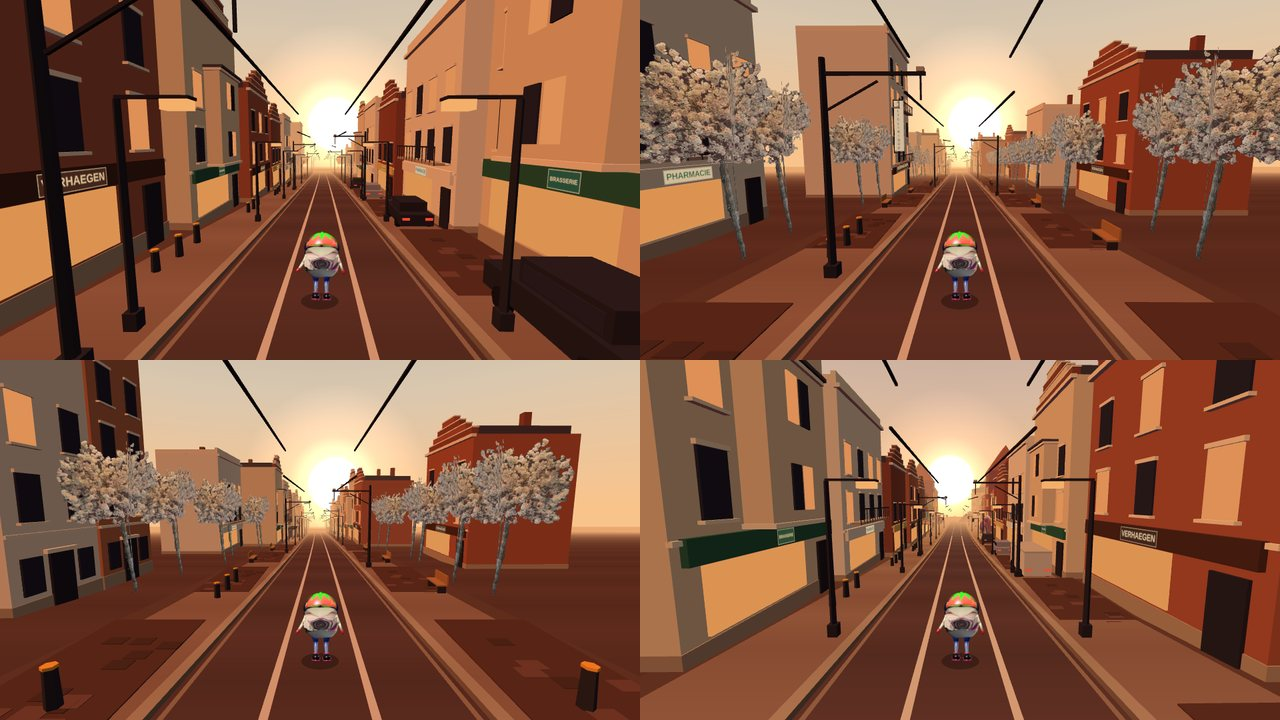
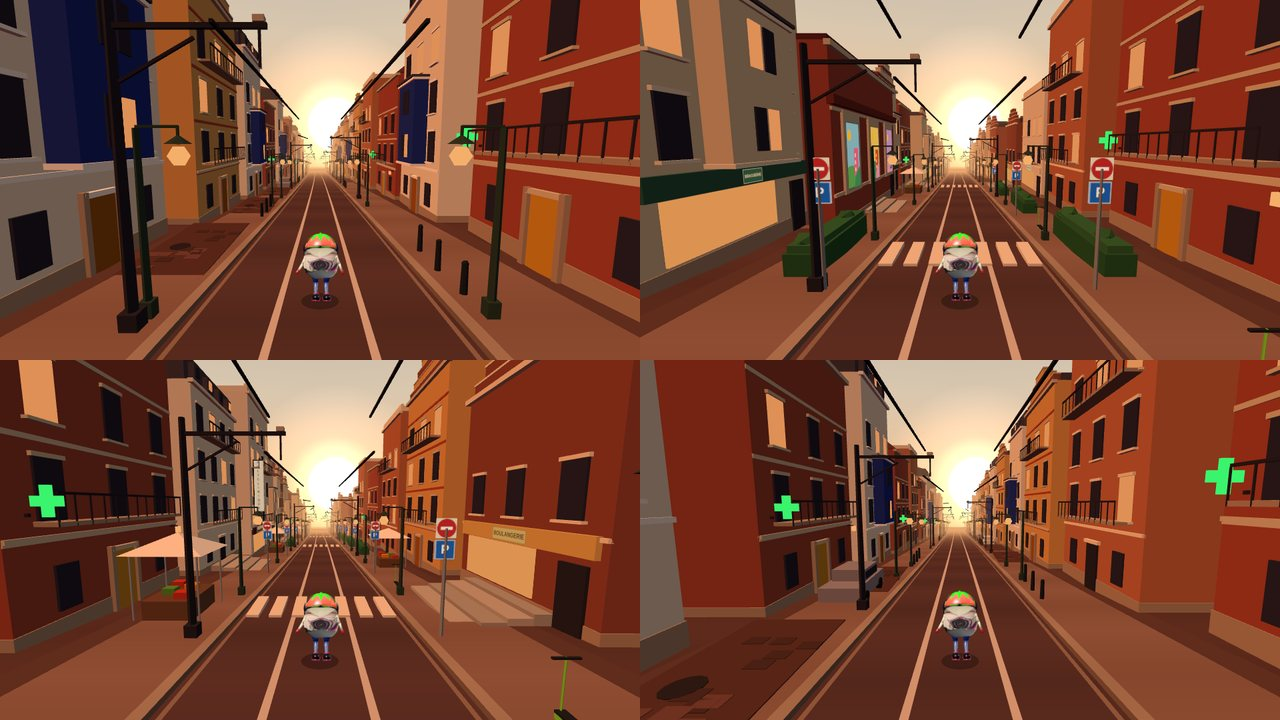
Enrich Saint-Gilles from three more photos: four new houses (ochre Art Nouveau with brick bands and iron balcony, white house with blue oriel, red-brick corner with pharmacy cross, modern white block), green lantern lamps, bollards, street signs, hedges, market canopies, steps, e-scooters, manhole c

diff --git a/src3d/env_tram.js b/src3d/env_tram.js
@@ -9,18 +9,21 @@ window.ENV3D = window.ENV3D || {};
   const mod = (a, n) => ((a % n) + n) % n;
   const T = { brick: '#a45a45', brickD: '#8a4a3c', brickL: '#b8704f', cream: '#e3d0b0', white: '#ece2d0', grey: '#b8aea2', stone: '#a8927e', slate: '#4a424c', roof: '#7a4a42',
               glass: '#2c2a3a', sun: '#e8975a', trim: '#f1e5cd', iron: '#2a2630', wire: '#26222c', warm: '#ffb870', cobble: '#55352f', cobbleA: '#6a4640', cobbleB: '#47302b',
-              awnA: '#b23a3a', awnB: '#efe0c0' };
+              awnA: '#b23a3a', awnB: '#efe0c0',
+              ochre: '#d8a35e', brickRed: '#a9483a', stoneL: '#cfc2a8', wood: '#9a5a1c', blue: '#22318c', white2: '#f0ede6', green: '#2c3d34', hedge: '#2c5a34', lime: '#7ddc3a' };
   const SLOT = SEG_LEN;
 
   // one townhouse (or half of a twin): facade plane at local x = 0, body toward +X, centred at z = zc
   function house(parts, o) {
-    const { F, D, H, zc = 0, wall, trim = T.trim, gable = 'step', roofCol = T.slate, cols = 3, bay = false, balcony = false, shop = null, seed = 1 } = o;
+    const { F, D, H, zc = 0, wall, trim = T.trim, gable = 'step', roofCol = T.slate, cols = 3, bay = false, balcony = false, shop = null, seed = 1, bands = null, bayCol = null, doorCol = null, base = null, cross = false, wallLamp = false } = o;
     const GF = 3.4, FL = 3.0, floors = Math.max(1, Math.floor((H - GF - 0.6) / FL));
     parts.push(Kit.box(D, H, F, D / 2, 0, zc, wall));                                                       // body
     parts.push(Kit.box(D + 0.08, 0.7, F + 0.08, D / 2, 0, zc, T.stone));                                    // plinth
     parts.push(Kit.box(0.36, 0.24, F + 0.3, -0.07, H - 0.24, zc, trim));                                    // cornice
     parts.push(Kit.box(0.16, 0.14, F, -0.02, GF - 0.12, zc, trim));                                         // ground-floor band
     const bc = Math.floor(cols / 2), cw = F / cols;
+    if (base) parts.push(Kit.box(0.08, GF, F, -0.02, 0, zc, base));                                          // a darker ground floor (modern block: dark brick)
+    if (bands) for (let f = 0; f <= Math.floor((H - GF) / FL); f++) parts.push(Kit.box(0.05, 0.16, F, -0.015, GF + f * FL - 0.2, zc, bands));   // horizontal brick / stone bands at every floor line
     for (let f = 0; f < floors; f++) {
       const y = GF + f * FL + 0.45;
       for (let c = 0; c < cols; c++) {
@@ -39,7 +42,7 @@ window.ENV3D = window.ENV3D || {};
     }
     if (bay) {                                                                                               // oriel (bay window) over two floors
       const bw = cw * 1.3, bz = zc - F / 2 + (bc + 0.5) * cw, by = GF + 0.2, bh = 2 * FL - 0.5;
-      parts.push(Kit.box(0.95, bh, bw, -0.45, by, bz, wall), Kit.box(1.1, 0.16, bw + 0.2, -0.5, by + bh, bz, trim), Kit.box(1.1, 0.16, bw + 0.2, -0.5, by - 0.1, bz, trim));
+      parts.push(Kit.box(0.95, bh, bw, -0.45, by, bz, bayCol || wall), Kit.box(1.1, 0.16, bw + 0.2, -0.5, by + bh, bz, trim), Kit.box(1.1, 0.16, bw + 0.2, -0.5, by - 0.1, bz, trim));
       for (let f = 0; f < 2; f++) for (const dz of [-0.4, 0.4]) {
         const lit = rnd(seed * 13 + f * 5 + (dz > 0 ? 1 : 0), 6) < 0.4;
         parts.push(Kit.box(0.08, 1.6, 0.62, -0.95, by + 0.45 + f * FL, bz + dz, lit ? T.sun : T.glass, { glow: lit }));
@@ -51,9 +54,12 @@ window.ENV3D = window.ENV3D || {};
       parts.push(Kit.box(0.14, 2.5, 1.1, -0.04, 0.0, zc + F / 2 - 1.1, T.iron));
       parts.push(Kit.box(0.22, 0.7, F * 0.94, -0.08, 2.75, zc, shop));                                       // fascia board
     } else {
-      parts.push(Kit.box(0.14, 2.5, 1.2, -0.04, 0.0, zc, T.iron), Kit.box(0.22, 0.18, 1.6, -0.08, 2.5, zc, trim));
+      parts.push(Kit.box(0.14, 2.5, 1.2, -0.04, 0.0, zc, doorCol || T.iron), Kit.box(0.22, 0.18, 1.6, -0.08, 2.5, zc, trim));
+      if (doorCol) for (const sd of [-1, 1]) parts.push(Kit.box(0.24, 2.7, 0.22, -0.07, 0, zc + sd * 0.78, T.stone));      // stone door surround
       for (const s of [-1, 1]) parts.push(Kit.box(0.1, 1.5, 0.9, -0.04, 0.95, zc + s * F * 0.3, T.glass));
     }
+    if (wallLamp) parts.push(Kit.box(0.4, 0.08, 0.08, -0.2, 3.1, zc + F / 2 - 0.6, T.iron), Kit.box(0.22, 0.34, 0.22, -0.42, 2.78, zc + F / 2 - 0.6, T.warm, { glow: true }));   // a wall lantern by the door
+    if (cross) parts.push(Kit.box(0.1, 0.1, 0.1, -0.1, 4.0, zc - F / 2 + 0.7, T.iron), Kit.box(0.9, 0.3, 0.1, -0.7, 4.3, zc - F / 2 + 0.7, '#3dff72', { glow: true }), Kit.box(0.3, 0.9, 0.1, -0.7, 4.0, zc - F / 2 + 0.7, '#3dff72', { glow: true }));   // a pharmacy cross, glowing green
     if (gable === 'step') {                                                                                  // Brussels stepped gable
       const steps = [0.92, 0.7, 0.48, 0.26];
       steps.forEach((k, n) => parts.push(Kit.box(0.5, 0.55, F * k, 0.25, H + n * 0.55, zc, n % 2 ? wall : T.brickD), Kit.box(0.56, 0.1, F * k + 0.1, 0.25, H + n * 0.55 + 0.55, zc, trim)));
@@ -90,8 +96,8 @@ window.ENV3D = window.ENV3D || {};
     return Kit.merge(p);
   }
   // house types by slot parity (A C E G on even slots of a side, B D F H on odd ones), so two neighbouring houses are never the same whatever the stretch
-  const ODD = ['rowB', 'rowD', 'rowF', 'rowH'], EVEN = ['rowA', 'rowC', 'rowE', 'rowG'];
-  const BRICK = [['rowA', 'rowE', 'rowC'], ['rowH', 'rowB']], SHOPS = [['rowE', 'rowG'], ['rowF', 'rowH']];
+  const ODD = ['rowB', 'rowD', 'rowF', 'rowH', 'rowJ', 'rowL'], EVEN = ['rowA', 'rowC', 'rowE', 'rowG', 'rowI', 'rowK'];
+  const BRICK = [['rowA', 'rowE', 'rowC', 'rowK'], ['rowH', 'rowB']], SHOPS = [['rowE', 'rowG'], ['rowF', 'rowH']], ART = [['rowI', 'rowK'], ['rowJ', 'rowB']];
 
   ENV3D.tram = {
     name: 'SAINT-GILLES',
@@ -119,6 +125,12 @@ window.ENV3D = window.ENV3D || {};
       rowF: build([{ F: 8.8, D: 8, H: 12.6, wall: T.cream, cols: 3, shop: '#2f5d4a', bay: true, seed: 7 }], [fascia('brass', 8.8)]),
       rowG: build([{ F: 10, D: 7, H: 11.8, wall: T.white, cols: 4, shop: '#e8e2d2', gable: 'flat', balcony: true, seed: 8 }], [fascia('pharm', 10)]),
       rowH: build([{ F: 8.6, D: 7, H: 9.8, wall: T.brickD, cols: 3, shop: '#d9b46a', seed: 9 }], [fascia('boul', 8.6)]),
+      // the second set of houses, from your later photos: an ochre-brick Art Nouveau house with red brick bands, a stone door surround, a wooden door and a big iron balcony; a white house
+      // with a dark-blue oriel; a red-brick corner house with a glowing pharmacy cross; a modern white block over a dark brick ground floor
+      rowI: build([{ F: 9, D: 8, H: 14.4, wall: T.ochre, trim: T.stoneL, bands: T.brickRed, cols: 3, balcony: true, doorCol: T.wood, gable: 'step', seed: 13 }]),
+      rowJ: build([{ F: 8.2, D: 8, H: 15, wall: '#efe7d8', trim: '#ffffff', cols: 3, bay: true, bayCol: T.blue, doorCol: T.wood, gable: 'mansard', roofCol: T.slate, seed: 14 }]),
+      rowK: build([{ F: 9.4, D: 8, H: 12.4, wall: '#9e4a3b', trim: T.stoneL, bands: T.stoneL, cols: 3, balcony: true, doorCol: '#c9942e', cross: true, wallLamp: true, gable: 'gable', roofCol: T.roof, seed: 15 }]),
+      rowL: build([{ F: 11, D: 8, H: 16.6, wall: T.white2, trim: '#d9d4ca', cols: 4, balcony: true, base: '#6b3a30', gable: 'flat', seed: 16 }]),
       // street furniture
       pole: () => Kit.merge([                                        // a pole carrying a cantilever arm over the rails, with a dropper to the wire
         Kit.box(0.4, 0.4, 0.4, 0, 0, 0, T.iron), Kit.cyl(0.09, 0.13, 6.6, 0, 0, 0, T.iron), Kit.box(3.0, 0.1, 0.1, -1.5, 6.1, 0, T.iron), Kit.box(1.7, 0.06, 0.06, -0.85, 5.5, 0, T.iron, { rz: -0.5 }),
@@ -130,6 +142,7 @@ window.ENV3D = window.ENV3D || {};
       blossom: () => BlossomSprite.prop(7.5),                          // the user's blossom-tree photo, 7.5 m tall
       cobbles: () => { const p = [Kit.box(2.9, 0.03, SLOT - 0.4, 0, 0, 0, T.cobble)];                      // a cobbled parking strip with lighter setts
         for (let k = 0; k < 22; k++) p.push(Kit.box(0.55, 0.045, 0.4, -1.2 + rnd(k, 31) * 2.4, 0, -5 + rnd(k, 32) * 10, k % 2 ? T.cobbleA : T.cobbleB));
+        p.push(Kit.cyl(0.4, 0.4, 0.05, 0.5, 0, 2.2, '#2b2527', { seg: 12 }));                                       // a manhole cover
         return Kit.merge(p); },
       carA: () => car('#2a2530', { lit: true }), carB: () => car('#d8d4cc'), carC: () => car('#8e8a96', { lit: true }), van: () => car('#cfcac2', { van: true, lit: true }),
       // landmarks (at most one per stretch and side), and the entrance marker
@@ -146,6 +159,27 @@ window.ENV3D = window.ENV3D || {};
         for (let k = 0; k < 8; k++) parts.push(Kit.box(1.4, 0.08, 1.0, -0.9, 3.2, -3.5 + k * 1.0, k % 2 ? T.awnA : T.awnB, { rz: 0.35 }));        // striped awning
         for (const z of [-2.2, 2.2]) parts.push(Kit.cyl(0.5, 0.5, 0.05, -2.6, 0.75, z, T.cream, { seg: 8 }), Kit.cyl(0.05, 0.05, 0.75, -2.6, 0, z, T.iron, { seg: 5 }), Kit.cone(1.4, 0.5, -2.6, 2.3, z, T.awnA, { seg: 8 }), Kit.cyl(0.05, 0.05, 2.3, -2.6, 0, z, T.iron, { seg: 5 }));
       }),
+      lantern: () => Kit.merge([                                      // the dark-green street lamp of the photos: a curved arm and a glowing globe
+        Kit.box(0.3, 0.4, 0.3, 0, 0, 0, T.green), Kit.cyl(0.07, 0.1, 4.3, 0, 0, 0, T.green), Kit.box(0.9, 0.06, 0.06, -0.45, 4.3, 0, T.green), Kit.box(0.05, 0.4, 0.05, -0.9, 3.95, 0, T.green),
+        Kit.ico(0.24, -0.9, 3.7, 0, T.warm, { glow: true }), Kit.cone(0.3, 0.2, -0.9, 3.96, 0, T.green, { seg: 8 })]),
+      posts: () => Kit.merge([-1.8, 0, 1.8].flatMap(z => [Kit.cyl(0.09, 0.11, 0.95, 0, 0, z, '#1d2128', { seg: 8 }), Kit.ico(0.1, 0, 0.98, z, '#1d2128')])),   // a row of black bollards with round tops
+      streetSign: () => ({ merged: Kit.merge([Kit.cyl(0.05, 0.06, 3.4, 0, 0, 0, '#8a8f96', { seg: 6 })]),
+                           sprite: TramArt.join([TramArt.blade('park', 0, -0.32, 0.28, 2.45, 3.05), TramArt.blade('noent', 0, -0.3, 0.3, 3.1, 3.7)]), material: () => TramArt.material() }),
+      hedge: () => Kit.merge([Kit.box(1.0, 0.9, 5.2, 0, 0, 0, T.hedge), Kit.box(0.8, 0.25, 5.0, 0, 0.9, 0, '#35683c'), Kit.ico(0.5, 0, 1.0, -2.0, '#35683c'), Kit.ico(0.45, 0, 1.0, 1.4, '#2f6038')]),
+      tent: () => { const p = [Kit.box(1.8, 0.8, 2.4, 0, 0, 0, '#6a4a36'), Kit.cone(2.1, 0.7, 0, 2.5, 0, '#f1efe8', { seg: 4, ry: Math.PI / 4 }), Kit.box(2.5, 0.06, 2.5, 0, 2.45, 0, '#f1efe8')];   // a white market canopy over a table of crates
+        for (const [x, z] of [[-1.2, -1.2], [1.2, -1.2], [-1.2, 1.2], [1.2, 1.2]]) p.push(Kit.cyl(0.04, 0.04, 2.5, x, 0, z, '#9aa0a6', { seg: 5 }));
+        [['#c0392b', -0.4, -0.7], ['#5a9a3c', 0.3, -0.2], ['#e08a1e', -0.3, 0.4], ['#c0392b', 0.4, 0.8]].forEach(([c, x, z]) => p.push(Kit.box(0.5, 0.25, 0.45, x, 0.8, z, c)));
+        return Kit.merge(p); },
+      scooter: () => Kit.merge([Kit.box(0.2, 0.05, 0.85, 0, 0.14, 0, '#222428'), Kit.cyl(0.02, 0.02, 1.05, 0, 0.14, -0.4, T.lime, { seg: 5 }), Kit.box(0.5, 0.04, 0.05, 0, 1.15, -0.4, '#222428'),
+        Kit.cyl(0.11, 0.11, 0.06, 0, 0.0, -0.4, T.lime, { rz: Math.PI / 2, seg: 8 }), Kit.cyl(0.11, 0.11, 0.06, 0, 0.0, 0.4, T.lime, { rz: Math.PI / 2, seg: 8 })]),
+      steps: () => Kit.merge([0, 1, 2, 3].map(k => Kit.box(0.9, 0.15 * (k + 1), 5.2, 0.5 + k * 0.9, 0, 0, k % 2 ? '#a39d94' : '#b3aca1'))),   // stone steps up from the pavement
+      zebra: () => Kit.merge([-3, -2, -1, 0, 1, 2, 3].map(k => Kit.box(0.5, 0.17, 2.4, k * 0.9, -0.14, 0, '#e9e2d2'))),            // a pedestrian crossing painted on the road (sunk so its top is 3 cm above it)
+      school: () => { const sp = [], p = [Kit.box(9, 10.4, 15, 4.5, 0, 0, '#9a463a'), Kit.box(9.1, 0.7, 15.1, 4.5, 0, 0, T.stone), Kit.box(0.36, 0.3, 15.4, -0.08, 10.1, 0, T.stoneL), Kit.box(0.14, 0.2, 15, -0.03, 6.9, 0, T.stoneL), Kit.box(0.14, 0.2, 15, -0.03, 2.2, 0, T.stoneL)];
+        ['mural1', 'mural2', 'mural3'].forEach((m, k) => { const z = -4.8 + k * 4.8; p.push(Kit.box(0.22, 4.9, 2.8, -0.05, 2.15, z, T.stoneL)); sp.push(TramArt.panel(m, -0.18, z - 1.1, z + 1.1, 2.4, 6.4)); });   // an arched window frame and a mural in each
+        p.push(Kit.box(0.4, 0.5, 15.4, -0.1, 7.2, 0, '#6e2f2c'), Kit.box(9, 0.3, 15, 4.5, 10.4, 0, '#5a2a30'), Kit.box(0.14, 2.6, 1.3, -0.04, 0, 6.0, T.iron));
+        return { merged: Kit.merge(p), sprite: TramArt.join(sp), material: () => TramArt.material() }; },
+      glassTower: () => Kit.merge([Kit.box(10, 20, 16, 5, 0, 0, '#7c8a9c'), Kit.box(10.4, 26, 16.4, 5, 20, 0, '#e8b96b', { glow: true }), Kit.box(10.2, 0.6, 16.2, 5, 46, 0, '#6a7888'), Kit.cyl(0.15, 0.2, 5, 5, 46.6, 0, '#9aa0a6', { seg: 5 }),
+        ...[26, 32, 38].map(y => Kit.box(10.5, 0.25, 16.5, 5, y, 0, '#b88e48', { glow: true }))]),                                   // a tall glass tower in the distance, gold where it catches the sun
       gateTram: () => ({ merged: Kit.merge([Kit.cyl(0.09, 0.12, 3.6, 0, 0, 0, T.iron), Kit.box(0.3, 0.3, 0.3, 0, 0, 0, T.iron)]), sprite: TramArt.blade('stop', 0, -0.9, 0.9, 2.5, 3.5), material: () => TramArt.material() }),
     },
 
@@ -158,25 +192,33 @@ window.ENV3D = window.ENV3D || {};
     //   2 brick: tall brick houses with bay windows and stepped gables
     // A landmark (Polyclinique block / tram stop / corner cafe) replaces the house on its side of one slot per stretch (the tram stop stands on the pavement, the houses stay).
     layout(i, rnd) {
-      const out = [{ prop: 'wire', x: -1.1, dist: 6 }, { prop: 'wire', x: 1.1, dist: 6 }], S = Stretch.of(i, 31, 5, ['polyclinique', 'tramStop', 'cornerCafe']);
+      const out = [{ prop: 'wire', x: -1.1, dist: 6 }, { prop: 'wire', x: 1.1, dist: 6 }], S = Stretch.of(i, 31, 7, ['polyclinique', 'tramStop', 'cornerCafe', 'school', 'glassTower']);
       for (const side of [-1, 1]) {
-        const k = i * 2 + (side > 0 ? 1 : 0), r = n => rnd(k, n), lm = S.lm && S.lm.slot === i && S.lm.side === side ? S.lm.kind : null, blocks = lm && lm !== 'tramStop';
+        const k = i * 2 + (side > 0 ? 1 : 0), r = n => rnd(k, n), lm = S.lm && S.lm.slot === i && S.lm.side === side ? S.lm.kind : null, blocks = lm && lm !== 'tramStop' && lm !== 'glassTower';
         const par = mod(i + (side > 0 ? 1 : 0), 2), pick = (L = [EVEN, ODD]) => L[par][Math.floor(r(12) * L[par].length)];   // a house type of this slot's parity class
         const house = (prop, x, dz) => { if (!blocks) out.push({ prop, x: side * x, dist: 6 + dz }); };
         const park = mod(S.b + (side > 0 ? 1 : 0), 2) === 0;                                                 // which side of this stretch has the parking strip
         const cars = (p = 0.6) => { if (!park) return; out.push({ prop: 'cobbles', x: side * 5.15, dist: 6 }); if (r(5) < p) out.push({ prop: ['carA', 'carB', 'carC', 'van'][Math.floor(r(6) * 4)], x: side * 5.15, dist: 3.2 + r(7) * 5 }); };
         if (mod(i + (side > 0 ? 1 : 0), 3) === 0) out.push({ prop: 'pole', x: side * 4.0, dist: 2.5 });
         switch (S.variant) {
-          case 0: house(pick(), FRONT_X + r(1) * 0.5, (r(2) - 0.5) * 0.8); cars(0.65); if (mod(i, 2) === (side > 0 ? 1 : 0)) out.push({ prop: 'swan', x: side * 3.95, dist: 8 }); break;
+          case 0: house(pick(), FRONT_X + r(1) * 0.5, (r(2) - 0.5) * 0.8); cars(0.65); if (mod(i, 2) === (side > 0 ? 1 : 0)) out.push({ prop: mod(i, 4) < 2 ? 'swan' : 'lantern', x: side * 3.95, dist: 8 }); if (r(14) < 0.12) out.push({ prop: 'streetSign', x: side * 3.8, dist: 2 }); break;
           case 1: house(pick(), FRONT_X + 1.4 + r(1) * 0.8, (r(2) - 0.5) * 0.8); out.push({ prop: 'blossom', x: side * 4.9, dist: mod(i, 2) === 0 ? 3 + r(3) * 2 : 8 + r(4) * 2 }); out.push({ prop: 'swan', x: side * 3.95, dist: 6 }); break;
           case 2: house(pick(BRICK), FRONT_X + r(1) * 0.4, (r(2) - 0.5) * 0.6); cars(0.5); if (mod(i, 2) === 0) out.push({ prop: 'swan', x: side * 3.95, dist: 9 }); break;
           case 3: house(pick(SHOPS), FRONT_X - 0.4 + r(1) * 0.3, (r(2) - 0.5) * 0.6); cars(0.75); out.push({ prop: 'swan', x: side * 3.95, dist: 4 }); if (r(8) < 0.4) out.push({ prop: 'bollard', x: side * 5.4, dist: 9 }); break;
+          case 5:                                                                                            // art nouveau: ochre and white houses, green lanterns, bollards, parked cars
+            house(pick(ART), FRONT_X + r(1) * 0.4, (r(2) - 0.5) * 0.6); cars(0.55); out.push({ prop: 'lantern', x: side * 3.95, dist: mod(i, 2) ? 3 : 9 });
+            if (mod(i + (side > 0 ? 1 : 0), 3) === 1) out.push({ prop: 'posts', x: side * 3.9, dist: 6 }); break;
+          case 6:                                                                                            // market corner: canopies, hedges, steps, signs, scooters, a crossing
+            house(pick(), FRONT_X + 1.0 + r(1) * 0.5, (r(2) - 0.5) * 0.6); out.push({ prop: 'lantern', x: side * 3.95, dist: 8 });
+            { const e = r(9); if (e < 0.4) out.push({ prop: 'tent', x: side * 5.6, dist: 5 + r(10) * 2 }); else if (e < 0.7) out.push({ prop: 'hedge', x: side * 5.0, dist: 6 }); else out.push({ prop: 'steps', x: side * 4.6, dist: 6 }); }
+            if (r(11) < 0.5) out.push({ prop: 'streetSign', x: side * 3.8, dist: 2.5 }); if (r(13) < 0.4) out.push({ prop: 'scooter', x: side * 4.3, dist: 10 });
+            if (side > 0 && mod(i, 3) === 0) out.push({ prop: 'zebra', x: 0.01, dist: 6 }); break;
           default:
             if (par === 0) house(pick(), FRONT_X + 4.5, (r(2) - 0.5) * 1.2);
             out.push({ prop: 'cobbles', x: side * 5.15, dist: 6 }, { prop: 'blossom', x: side * (7.5 + r(3) * 2.5), dist: 3 + r(4) * 3 }, { prop: 'blossom', x: side * (7.5 + r(5) * 2.5), dist: 8 + r(6) * 3 });
             if (r(7) < 0.5) out.push({ prop: 'bench', x: side * 6.2, dist: 6 }); else out.push({ prop: 'bollard', x: side * 4.9, dist: 6 });
         }
-        if (lm) out.push({ prop: lm, x: side * (lm === 'tramStop' ? 4.5 : lm === 'polyclinique' ? FRONT_X + 0.3 : FRONT_X - 0.2), dist: 6 });
+        if (lm) out.push({ prop: lm, x: side * (lm === 'tramStop' ? 4.5 : lm === 'polyclinique' ? FRONT_X + 0.3 : lm === 'glassTower' ? FRONT_X + 15 : FRONT_X - 0.2), dist: 6 });
       }
       return out;
     },

diff --git a/tests/qa3d_world.js b/tests/qa3d_world.js
@@ -270,7 +270,7 @@ const res = []; const T = (n, ok, i = '') => { res.push(ok); console.log((ok ? '
     out.rails = [r.road.pal('tram', 1).rails, r.road.pal('tram', 0.3).rails, r.road.pal('city', 1).rails, r.road.pal('neon', 1).rails];
     // lettered signs: one canvas atlas, shared material, seven cells; the landmark and the shop houses carry textured panels
     const mat = TramArt.material(); out.cells = Object.keys(TramArt.cells).length; out.canvas = mat.map.image instanceof HTMLCanvasElement && mat.map.image.width === 512;
-    out.signs = {}; for (const n of ['polyclinique', 'tramStop', 'rowE', 'rowF', 'rowG', 'rowH', 'cornerCafe', 'gateTram']) { const m = ENV3D.tram.props[n](); out.signs[n] = !!(m.sprite && m.material() === mat && m.merged); }
+    out.signs = {}; for (const n of ['polyclinique', 'tramStop', 'rowE', 'rowF', 'rowG', 'rowH', 'cornerCafe', 'gateTram', 'school', 'streetSign']) { const m = ENV3D.tram.props[n](); out.signs[n] = !!(m.sprite && m.material() === mat && m.merged); }
     out.signs.rowA = !ENV3D.tram.props.rowA().sprite;
     // descent: the street falls 7 % along its length in proportion to its blend; flat everywhere else
     { const P = w.pieces.find(q => q.type === 'seg' && q.id === 'tramRun'), B = w.pieces.find(q => q.type === 'seg' && q.id === 'cityRunB'); let mono = true, prev = -1;
@@ -282,14 +282,14 @@ const res = []; const T = (n, ok, i = '') => { res.push(ok); console.log((ok ? '
   });
   T('the tram street is a district: biome tram through the whole segment, atmosphere fades in over the first 120 m and out over the last 120 m (no jumps), full strength in the middle, between the old town and the second fork (' + Ts.ids[0] + ')',
     Ts.segs >= 2 && Ts.len >= 4000 && Ts.bad.length === 0 && Ts.maxStep < 0.1 && Ts.mid > 5 && Ts.ends > 0 && Ts.ids.every(x => /^cityRunB>tramRun>fork:forestB$/.test(x)) && Ts.name === 'SAINT-GILLES', JSON.stringify({ segs: Ts.segs, len: Ts.len, bad: Ts.bad.slice(0, 3), maxStep: +Ts.maxStep.toFixed(3), ids: Ts.ids.slice(0, 2), name: Ts.name }));
-  T('the tram streets layout uses only props that exist, dresses every slot (2..14 props), has the wire over both rails in every slot, uses >= 14 kinds incl. the three landmarks, never repeats a house on the same side in consecutive slots; 2D palette and entrance marker exist',
-    Ts.missing.length === 0 && Ts.layout.min >= 2 && Ts.layout.max <= 14 && Ts.kinds.length >= 14 && ['polyclinique', 'tramStop', 'cornerCafe', 'wire', 'pole', 'swan', 'blossom', 'cobbles', 'carA', 'van'].every(k => Ts.kinds.includes(k)) && Ts.nb.n > 500 && Ts.nb.same === 0 && Ts.has2D && Ts.entrance,
+  T('the tram streets layout uses only props that exist, dresses every slot (2..16 props), has the wire over both rails in every slot, uses >= 30 kinds incl. the five landmarks and the new street furniture, never repeats a house on the same side in consecutive slots; 2D palette and entrance marker exist',
+    Ts.missing.length === 0 && Ts.layout.min >= 2 && Ts.layout.max <= 16 && Ts.kinds.length >= 30 && ['polyclinique', 'tramStop', 'cornerCafe', 'school', 'glassTower', 'wire', 'pole', 'swan', 'lantern', 'posts', 'streetSign', 'hedge', 'tent', 'scooter', 'steps', 'zebra', 'rowI', 'rowJ', 'rowK', 'rowL', 'blossom', 'cobbles', 'carA', 'van'].every(k => Ts.kinds.includes(k)) && Ts.nb.n > 500 && Ts.nb.same === 0 && Ts.has2D && Ts.entrance,
     JSON.stringify({ missing: Ts.missing, layout: Ts.layout, kinds: Ts.kinds.length, nb: Ts.nb, has2D: Ts.has2D, entrance: Ts.entrance }));
   T('the sun is low and ahead with a glow in the tram street (blended in with the zone, half way at half strength), unchanged elsewhere (default place, no glow); warm fog; tram rails only in the street, once it is mostly in',
     Ts.sunTram.glow >= 0.99 && Ts.sunTram.glowVisible && Ts.sunTram.y < 20 && Ts.sunTram.y > 5 && Math.abs(Ts.sunHalf.glow - 0.5) < 0.05 && Ts.sunCity.glow === 0 && !Ts.sunCity.glowVisible && Ts.sunCity.x === -70 && Ts.sunCity.y === 28 && !Ts.sunNeon.glowVisible && /^#e/.test(Ts.sunTram.fog) &&
     Ts.rails[0] === true && Ts.rails[1] === false && Ts.rails[2] === false && Ts.rails[3] === false, JSON.stringify({ tram: Ts.sunTram, half: Ts.sunHalf, city: Ts.sunCity, rails: Ts.rails }));
-  T('the lettered signs are drawn on one small canvas atlas (7 cells: POLYCLINIQUE blade, VERHAEGEN fascia, TRAM plate, shop boards) with one shared material; the landmark, the shop houses, the stop and the entrance carry textured panels, the plain houses none',
-    Ts.cells === 7 && Ts.canvas && Object.values(Ts.signs).every(Boolean) && Ts.blade.poly && Ts.blade.tall, JSON.stringify({ cells: Ts.cells, canvas: Ts.canvas, signs: Ts.signs, blade: Ts.blade }));
+  T('the lettered signs are drawn on one small canvas atlas (14 cells: POLYCLINIQUE blade, VERHAEGEN fascia, TRAM plate, shop boards, BRICO, the parking, ZONE P and no-entry signs, three murals) with one shared material; the landmark, the school, the shop houses, the stop, the street signs and the entrance carry textured panels, the plain houses none',
+    Ts.cells === 14 && Ts.canvas && Object.values(Ts.signs).every(Boolean) && Ts.blade.poly && Ts.blade.tall, JSON.stringify({ cells: Ts.cells, canvas: Ts.canvas, signs: Ts.signs, blade: Ts.blade }));
   const Bl = await pg.evaluate(async () => {
     const mat = BlossomSprite.material(); for (let i = 0; i < 60 && !mat.visible; i++) await new Promise(q => setTimeout(q, 100));
     const m = ENV3D.tram.props.blossom(), g = m.sprite; g.computeBoundingBox(); const bb = g.boundingBox, pc = g.attributes.position.count;

diff --git a/src3d/tram_art.js b/src3d/tram_art.js
@@ -2,7 +2,7 @@
 // and a couple of shop boards), drawn once on a small canvas atlas at start-up: no image file. One shared texture and material, same contract as NeonArt:
 // a prop factory returns { merged, sprite, material: () => TramArt.material() } and Renderer3D pools both together.
 const TramArt = {
-  W: 512, H: 512, cells: {},
+  W: 512, H: 1024, cells: {},
   _mat: null,
   // name: [x, y, w, h, background, text colour, text, orientation]
   SPEC: {
@@ -13,12 +13,32 @@ const TramArt = {
     pharm: [128, 192, 384, 96, '#e8e2d2', '#1f7a4d', 'PHARMACIE', 'h'],
     cafe:  [128, 288, 384, 96, '#6b2737', '#f3cf7a', 'CAFE', 'h'],
     boul:  [128, 384, 384, 96, '#d9b46a', '#4a2e28', 'BOULANGERIE', 'h'],
+    brico: [0, 512, 256, 96, '#e8741f', '#3a1a0c', 'BRICO', 'h'],               // a hardware-shop board (orange)
+    park:  [256, 512, 96, 96, '#1d5fb8', '#ffffff', 'P', 'h'],                   // blue parking sign
+    zonep: [0, 608, 192, 96, '#1d5fb8', '#ffffff', 'ZONE P', 'h'],
+    noent: [352, 512, 96, 96, null, null, null, 'noent'],                        // round no-entry sign
+    mural1: [0, 704, 160, 256, null, null, null, 'mural'],                       // the three murals of the school's arched windows (drawn here, in the spirit of the photo)
+    mural2: [160, 704, 160, 256, null, null, null, 'mural'],
+    mural3: [320, 704, 160, 256, null, null, null, 'mural'],
   },
   _build() {
     const c = document.createElement('canvas'); c.width = this.W; c.height = this.H;
     const g = c.getContext('2d'); g.fillStyle = '#000'; g.fillRect(0, 0, this.W, this.H);
     for (const name in this.SPEC) {
       const [x, y, w, h, bg, fg, text, o] = this.SPEC[name];
+      if (o === 'noent') {                                              // red disc, white bar
+        g.fillStyle = '#e9e2d2'; g.fillRect(x, y, w, h); g.fillStyle = '#c4292b'; g.beginPath(); g.arc(x + w / 2, y + h / 2, w * 0.46, 0, 7); g.fill();
+        g.fillStyle = '#fff'; g.fillRect(x + w * 0.22, y + h * 0.43, w * 0.56, h * 0.14);
+        this.cells[name] = { u0: (x + 2) / this.W, u1: (x + w - 2) / this.W, v0: 1 - (y + h - 2) / this.H, v1: 1 - (y + 2) / this.H, ar: w / h }; continue;
+      }
+      if (o === 'mural') {                                              // a bright painted wall: sky, hills, a few shapes (three different ones)
+        const k = +name.slice(-1), P = [['#8ed0f0', '#5fae5a', '#f06aa0'], ['#f7d86a', '#3f9a6a', '#e8481c'], ['#c9a0e8', '#f0a0c0', '#2a6ac8']][k - 1];
+        g.fillStyle = P[0]; g.fillRect(x, y, w, h); g.fillStyle = P[1]; g.beginPath(); g.ellipse(x + w * 0.3, y + h, w * 0.8, h * 0.35, 0, Math.PI, 0); g.fill();
+        g.fillStyle = P[2]; g.fillRect(x + w * 0.52, y + h * (0.34 + 0.05 * k), w * 0.34, h * 0.42); g.fillStyle = '#fff6d8'; for (let r = 0; r < 3; r++) g.fillRect(x + w * 0.58, y + h * (0.42 + 0.05 * k) + r * h * 0.11, w * 0.08, h * 0.06);
+        g.fillStyle = '#ffd23a'; g.beginPath(); g.arc(x + w * 0.22, y + h * 0.2, w * 0.13, 0, 7); g.fill();
+        g.strokeStyle = '#3a2a2a'; g.lineWidth = 5; g.strokeRect(x + 2, y + 2, w - 4, h - 4);
+        this.cells[name] = { u0: (x + 2) / this.W, u1: (x + w - 2) / this.W, v0: 1 - (y + h - 2) / this.H, v1: 1 - (y + 2) / this.H, ar: w / h }; continue;
+      }
       g.fillStyle = bg; g.fillRect(x, y, w, h);
       g.strokeStyle = fg; g.lineWidth = 3; g.strokeRect(x + 4, y + 4, w - 8, h - 8);
       g.fillStyle = fg; g.textAlign = 'center'; g.textBaseline = 'middle';

diff --git a/src3d/renderer3d.js b/src3d/renderer3d.js
@@ -64,7 +64,8 @@ class Renderer3D {
                   neonSwirlR: 24, neonSwirlP: 24, neonSwirlG: 24, neonSwirlT: 24, neonStreetBlock: 24, neonDotsBlock: 24, neonRaysTower: 28, neonSwirlSign: 40, neonCapSign: 40, neonDotScreen: 28, neonLinesBanner: 40,
                   neonShopD: 24, neonCar: 40, neonBoardVortex: 6, neonBoardSphere: 6, neonBoardRings: 6, neonBoardSpiral: 6,
                   rowA: 26, rowB: 26, rowC: 26, rowD: 26, rowE: 26, rowF: 26, rowG: 26, rowH: 26, pole: 24, wire: 36, swan: 40, blossom: 60, cobbles: 44, carA: 20, carB: 20, carC: 20, van: 20,   // the tram street
-                  polyclinique: 6, tramStop: 6, cornerCafe: 6, gateTram: 8 };                                                              // entrance markers where the biome changes
+                  polyclinique: 6, tramStop: 6, cornerCafe: 6, gateTram: 8, school: 6, glassTower: 6,
+                  rowI: 26, rowJ: 26, rowK: 26, rowL: 26, lantern: 40, posts: 40, streetSign: 24, hedge: 30, tent: 24, scooter: 24, steps: 24, zebra: 8 };                                                              // entrance markers where the biome changes
     this.props = {}; this.propUsed = {};
     for (const id of Object.keys(envs)) {
       const props = envs[id].props; if (!props) continue;

diff --git a/README.md b/README.md
@@ -33,7 +33,7 @@ A third set of 17 pictures (`src3d/neon_assets3.js`, one alpha atlas) adds 17 mo
 
 ![neon quarter](docs/screenshots/neon-quarter.jpg)
 
-**Saint-Gilles (the tram street):** a street in Saint-Gilles, Brussels, at sunset, from your two street photos (`src3d/env_tram.js`, `src3d/tram_art.js`), as the track segment `tramRun` (450 m, a `district` like the Neon Quarter, between the second lap's city run and the second fork). The sky, fog, light, road palette and scenery fade from the old town into it over the first 120 m and back over the last 120 m. A big low sun sits ahead, a little right of the road, with a soft orange glow (`sunPos` / `sunGlow` in the biome data, drawn by `Renderer3D`; the other zones keep the default sun), a pale blue-grey sky, warm haze, and one low orange light from ahead that rims the facades and leaves the rest in warm shade. The road is dark red-brown cobbles with the two lane lines drawn as continuous silver **tram rails** (`rails: true` in the road palette); overhead **tram wires** run unbroken over both rails with poles every third slot, swan-neck lamps, a cobbled parking strip with parked cars (rear lights on), dark tall trees, and townhouses in brick, cream and white with bay windows, iron balconies and Brussels stepped gables (eight types; neighbours on a side are never the same type: even and odd slots draw from separate sets). The trees are **your blossom-tree photo** (`src3d/blossom_assets.js` / `blossom_sprite.js`): cut out along the outline you drew (the crown closed up into a dense mass, the trunk kept), embedded as one WebP with alpha, drawn like the feather trees as two crossed planes 7.5 m tall and toned warm (`BlossomSprite.TINT`). Shop fronts carry lettered fascias, and three landmarks appear at most once per stretch: the **Polyclinique** block (its vertical POLYCLINIQUE blade sign and the VERHAEGEN fascia from your photos), a **tram stop** with a TRAM plate, and a corner cafe. The signs are drawn at start-up on one small canvas atlas (`TramArt`, 7 cells, no image file). The street runs **downhill** (the last two photos were taken on a descent): the segment has `grade: 0.07` (7 %), and the road, the scenery, the coins and the hazards sit lower the further ahead they are, so the sun hangs above the road's far end. It is drawing only: gameplay stays flat (the runner is always at height 0), and `World.dropAt` / `gradeAt` give the fall, in proportion to the district blend so the slope eases in and out with the atmosphere; the far ground tips down with it so the road never sinks under it. Both photos are used for the look (palette, composition, signs), not pasted in: the street is built from low-poly parts like the other zones.
+**Saint-Gilles (the tram street):** a street in Saint-Gilles, Brussels, at sunset, from your two street photos (`src3d/env_tram.js`, `src3d/tram_art.js`), as the track segment `tramRun` (450 m, a `district` like the Neon Quarter, between the second lap's city run and the second fork). The sky, fog, light, road palette and scenery fade from the old town into it over the first 120 m and back over the last 120 m. A big low sun sits ahead, a little right of the road, with a soft orange glow (`sunPos` / `sunGlow` in the biome data, drawn by `Renderer3D`; the other zones keep the default sun), a pale blue-grey sky, warm haze, and one low orange light from ahead that rims the facades and leaves the rest in warm shade. The road is dark red-brown cobbles with the two lane lines drawn as continuous silver **tram rails** (`rails: true` in the road palette); overhead **tram wires** run unbroken over both rails with poles every third slot, swan-neck lamps, a cobbled parking strip with parked cars (rear lights on), dark tall trees, and townhouses in brick, cream and white with bay windows, iron balconies and Brussels stepped gables (eight types; neighbours on a side are never the same type: even and odd slots draw from separate sets). The trees are **your blossom-tree photo** (`src3d/blossom_assets.js` / `blossom_sprite.js`): cut out along the outline you drew (the crown closed up into a dense mass, the trunk kept), embedded as one WebP with alpha, drawn like the feather trees as two crossed planes 7.5 m tall and toned warm (`BlossomSprite.TINT`). From your three later photos the street was enriched: four more houses (an ochre-brick Art Nouveau house with red brick bands, a stone door surround, a wooden door and a big iron balcony; a white house with a dark-blue oriel; a red-brick corner house with a glowing green pharmacy cross and a wall lantern; a modern white block over dark brick), the dark-green lantern street lamps, rows of black bollards, street signs (parking, no entry), hedges, white market canopies over crates, stone steps, a parked lime e-scooter, manhole covers, a painted pedestrian crossing, and two more landmarks: the **school** (red brick with stone bands and a painted mural in each arched window) and a tall **glass tower** in the distance, gold where it catches the sun. The stretches now have seven characters (the two new ones: an Art Nouveau terrace, and a market corner). Shop fronts carry lettered fascias, and three landmarks appear at most once per stretch: the **Polyclinique** block (its vertical POLYCLINIQUE blade sign and the VERHAEGEN fascia from your photos), a **tram stop** with a TRAM plate, and a corner cafe. The signs are drawn at start-up on one small canvas atlas (`TramArt`, 14 cells, no image file). The street runs **downhill** (the last two photos were taken on a descent): the segment has `grade: 0.07` (7 %), and the road, the scenery, the coins and the hazards sit lower the further ahead they are, so the sun hangs above the road's far end. It is drawing only: gameplay stays flat (the runner is always at height 0), and `World.dropAt` / `gradeAt` give the fall, in proportion to the district blend so the slope eases in and out with the atmosphere; the far ground tips down with it so the road never sinks under it. Both photos are used for the look (palette, composition, signs), not pasted in: the street is built from low-poly parts like the other zones.
 
 ![tram street](docs/screenshots/tram-street.jpg)
 
